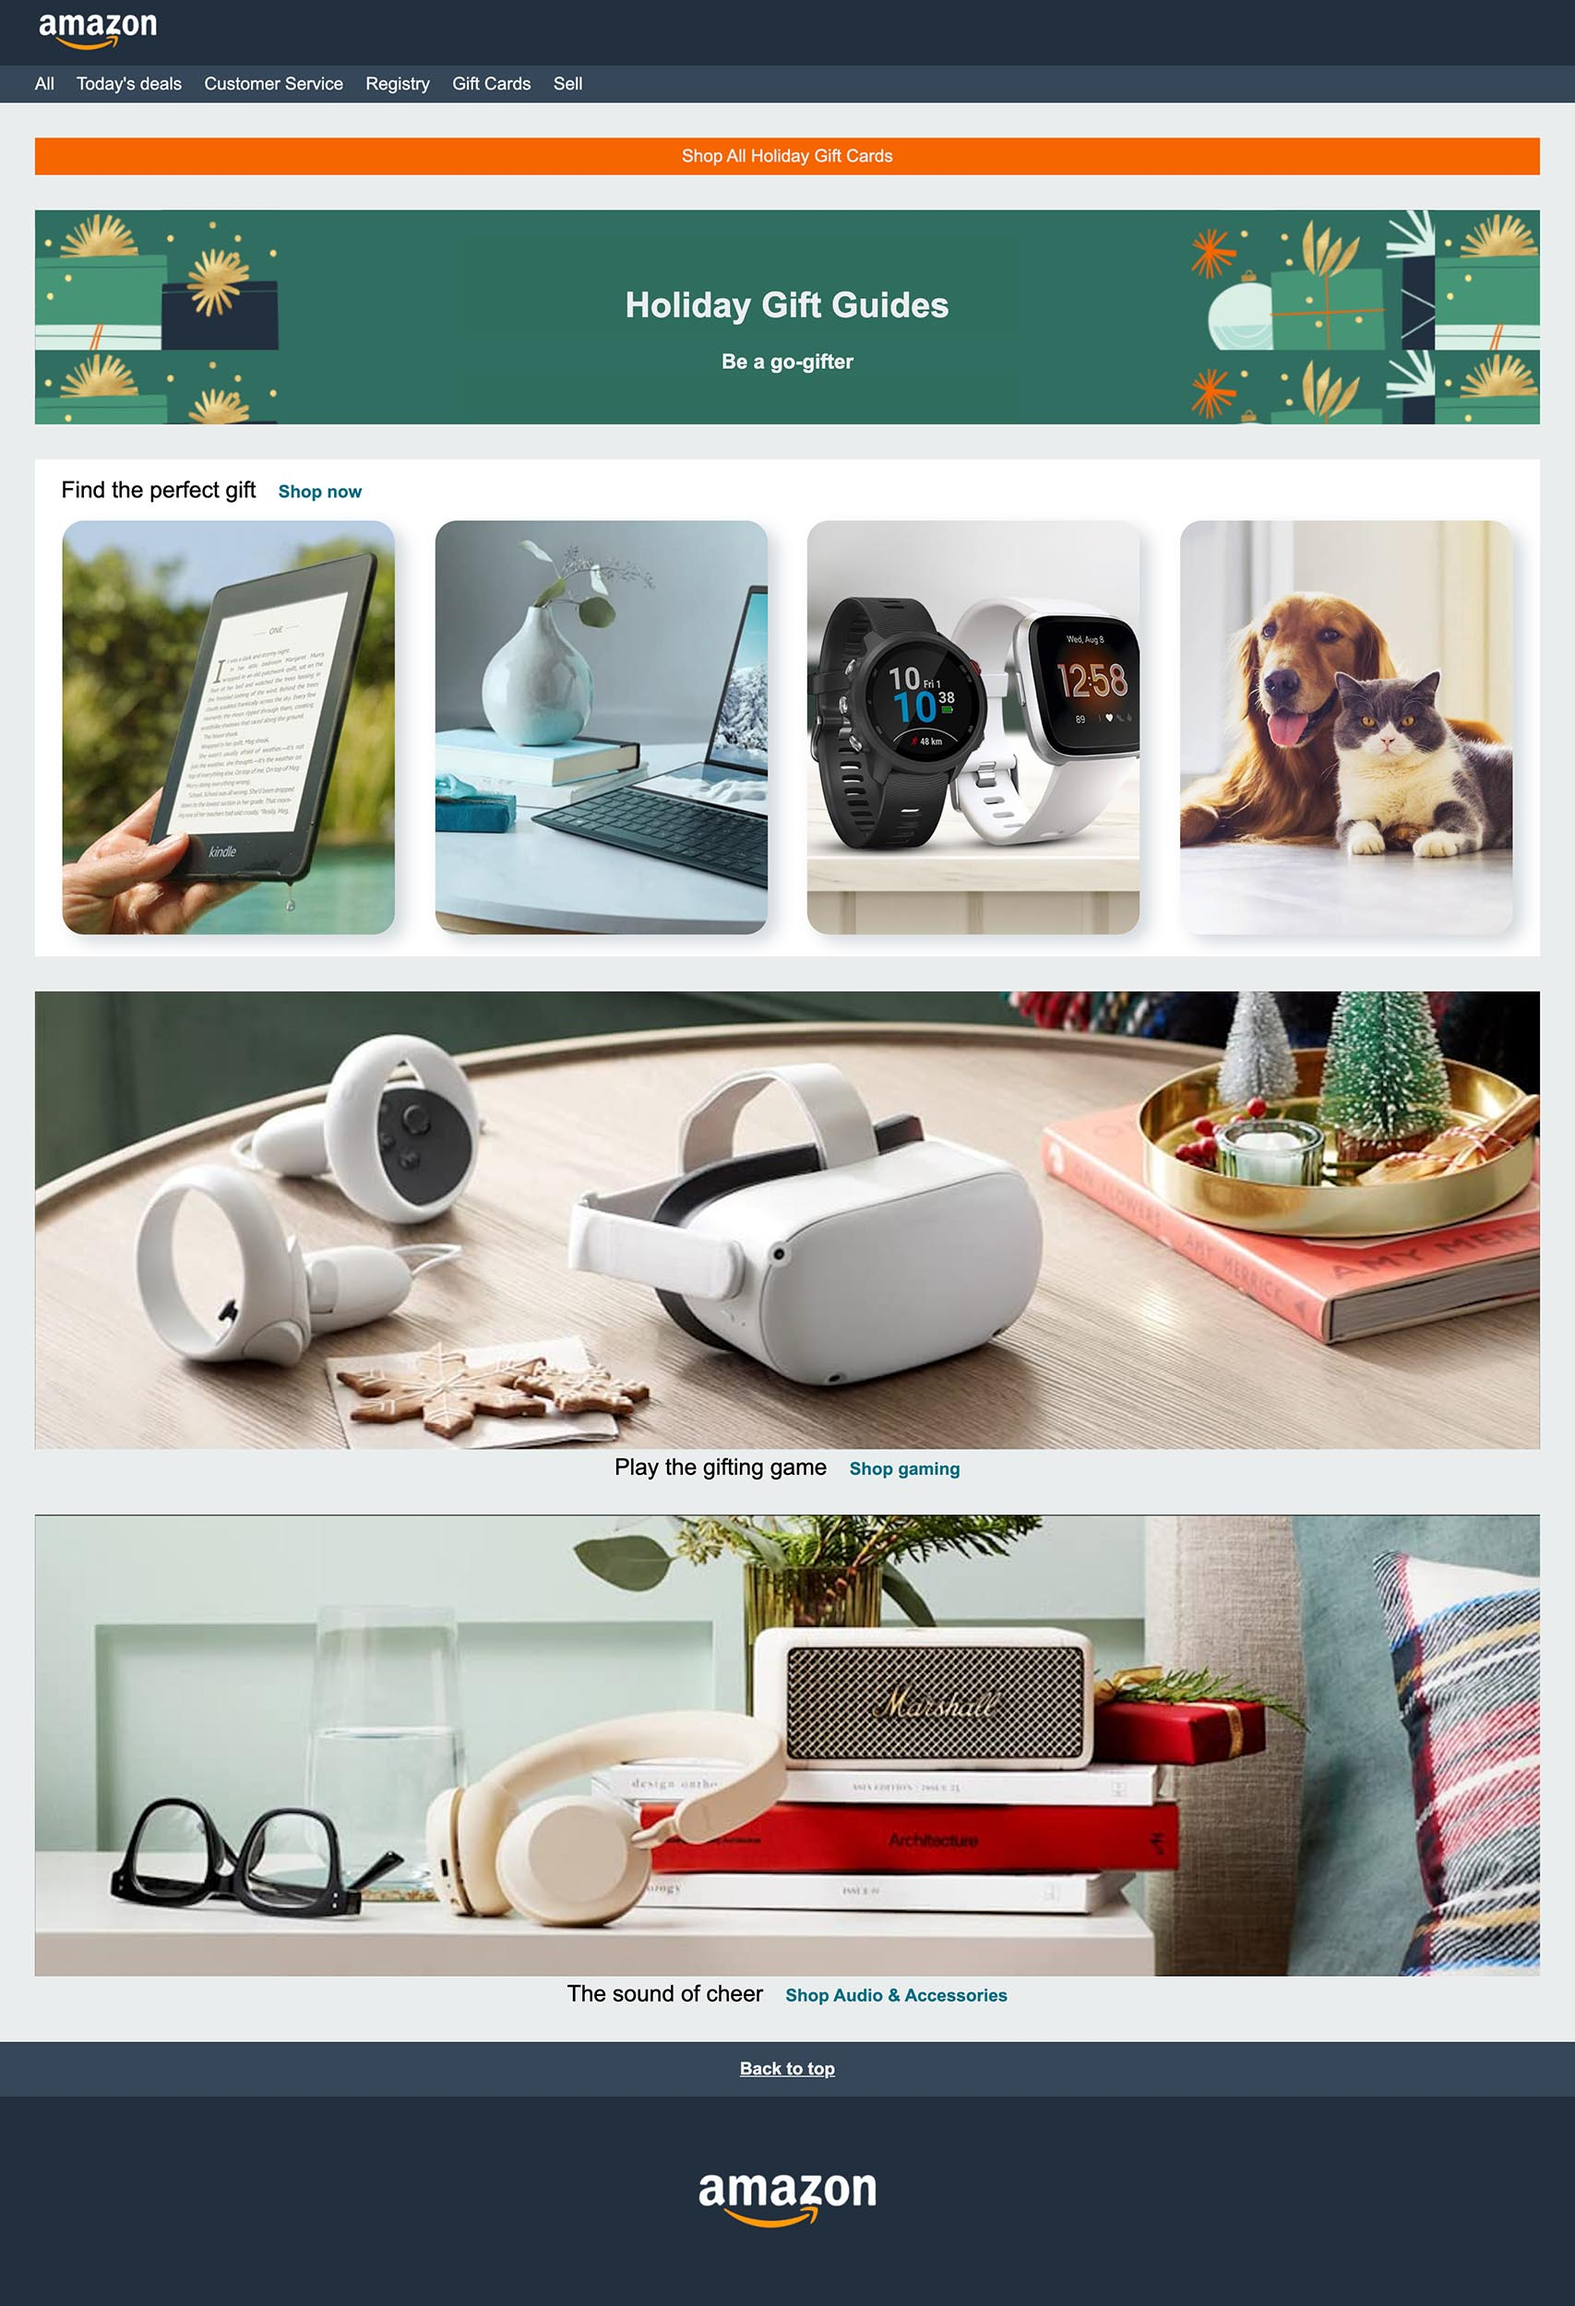
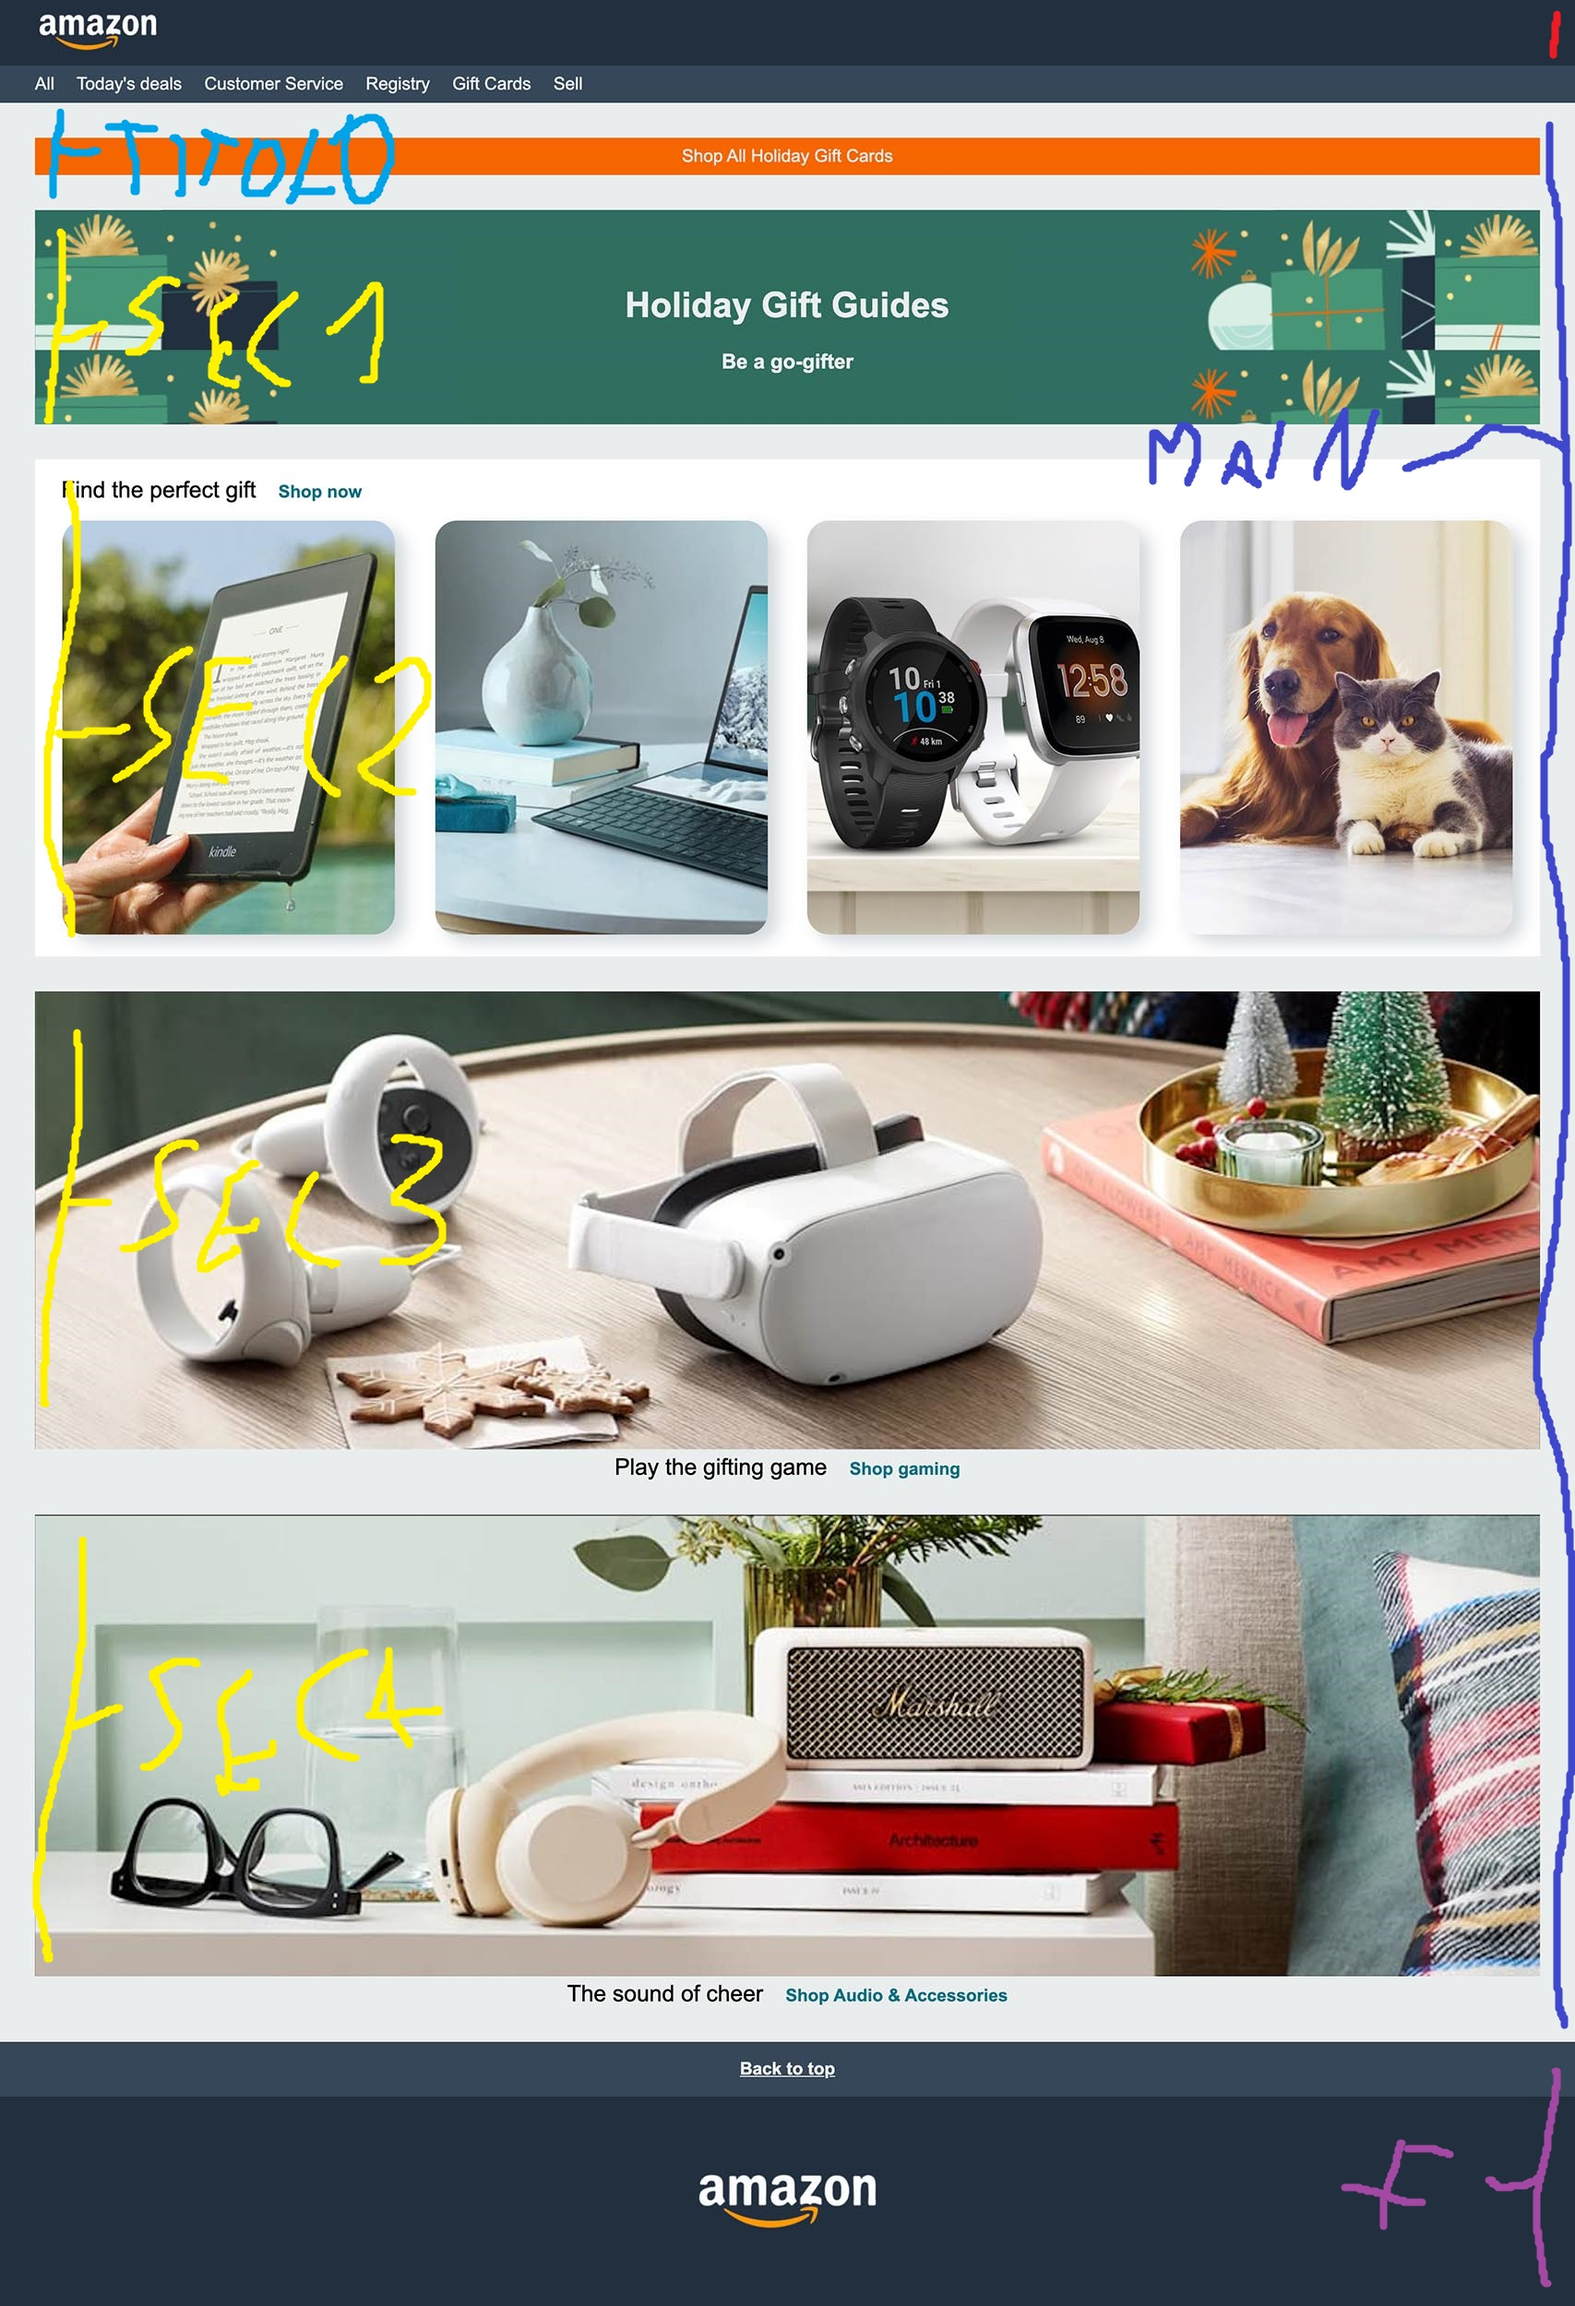
small revision

diff --git a/style.css b/style.css
@@ -6,10 +6,6 @@ body {
     font-family: 'PT Sans', sans-serif;
 }
 
-.container {
-    width: 100%;
-}
-
 header {
     background-color: rgb(34,47,63);
 }
@@ -17,7 +13,7 @@ header {
 header>div {
     width: 10%;
     position: relative;
-    height: 10vh;
+    height: 15vh;
     margin: 0 3%;
 }
 
@@ -42,9 +38,12 @@ nav div.navInlineBlock {
     padding: 0.5%;
 }
 
-header>div div.amazon {
-    font-size: 1.8em;
-    padding: 0% 5% 5%;
+section.second .smallDescription {
+    position: absolute;
+    top: 5%;
+    left: 11.5%;
+    transform: translate(-50%, -50%);
+    font-size: 1.3em;
 }
 
 main {
@@ -54,44 +53,65 @@ main {
     padding: 3vh;
 }
 
-main div.subtitle {
+main div.title {
     background-color: #F56600;
     width: 100%;
     color: #FFEBD9;
-    padding: 10 px;
+    padding: 1vh 0;
+    font-weight: bold;
 }
 section.first {
-    padding: 3vh 0 0;
+    padding: 4vh 0 4vh;
     position: relative;
+    color: #FFEBD9;
+    font-weight: bold;
 }
 
 section.first img {
     width: 100%;
+    height: 25vh;
     z-index: 0;
 }
 
 section.first span {
     position: absolute;
-    top: 45%;
+    top: 50%;
     left: 50%;
     transform: translate(-50%, -50%);
     z-index: 1;
-    font-size: 1.5em;
-    font-weight: bold;
-    color: #FFEBD9;
+    font-size: 2em;
 }
 
-section.first p {
+section.first p:last-child {
     position: absolute;
     top: 60%;
     left: 50%;
     transform: translate(-50%, -50%);
     z-index: 1;
-    color: #FFEBD9;
+    font-size: 1.2em;
 }
 
 section.second {
     position: relative;
+}
+
+section.second .smallDescription {
+    position: absolute;
+    top: 5%;
+    left: 11.5%;
+    transform: translate(-50%, -50%);
+    font-size: 1.3em;
+}
+
+section.second p>span {
+    color: #267A83 ;
+    font-weight: bold;
+    font-size: 0.9em;
+    padding-left: 1vw;
+}
+
+section.second div.whiteBackground {
+    background-color: white;
 }
 
 section.second div.photoInlineBlock {
@@ -103,31 +123,55 @@ section.second div.photoInlineBlock {
 
 section.second div.photoInlineBlock img {
     width: 100%;
-    height: 350px;
+    height: 400px;
     border-radius: 15px;
     box-shadow: 10px 5px 5px lightgray;
 }
 
-section.second div.small {
-    position: absolute;
-    top: 5%;
-    left: 8%;
-    transform: translate(-50%, -50%);
-}
-
-section.second p>span {
-    color: #267A83 ;
-    font-weight: 400;
-    font-size: 1.2em;
-}
-
-section.second div.white {
-    background-color: white;
+section.third {
+    position: relative;
 }
 
 section.third img {
     width: 100%;
-    padding: 2% 0;
+    padding: 2% 0 4%;
+    z-index: 0;
+}
+
+section.third .smallDescription2 {
+    position: absolute;
+    bottom: -3.5%;
+    left: 50%;
+    transform: translate(-50%, -50%);
+    font-size: 1.3em;
+    z-index: 1;
+}
+
+section.third p>span {
+    color: #267A83 ;
+    font-weight: bold;
+    font-size: 0.9em;
+    padding-left: 1vw;
+}
+
+section.fourth {
+    position: relative;
+}
+
+section.fourth .smallDescription2 {
+    position: absolute;
+    bottom: -10%;
+    left: 50%;
+    transform: translate(-50%, -50%);
+    font-size: 1.3em;
+    z-index: 1;
+}
+
+section.fourth p>span {
+    color: #267A83 ;
+    font-weight: bold;
+    font-size: 0.9em;
+    padding-left: 1vw;
 }
 
 section.fourth img {
@@ -137,13 +181,13 @@ section.fourth img {
 
 footer {
     background-color: rgb(34,47,63);
-    height: 18vh;
+    height: 30vh;
     text-align: center;
 
 }
 
 footer div.logo2 {
-    width: 10%;
+    width: 12%;
     position: relative;
 }
 
@@ -151,14 +195,14 @@ footer div.logo2 img {
     width: 100%;
     position: absolute;
     bottom: 0%;
-    top: 8vh;
-    left: 50vw;
+    top: 13vh;
+    left: 50vw; /* non capisco perchè non funziona con le percentuali e debba usare le vh/vw */
     transform: translate(-50%, -50%);
 }
 
 footer div.banner {
     background-color: #364759;
-    padding: 0.3% 0;
+    padding: 1% 0;
     width: 100%;
     color: #DAE4F0;
     text-decoration: none;

diff --git a/index.html b/index.html
@@ -8,32 +8,29 @@
         <title>Amazon Shop</title>
     </head>
     <body>
-        <div class="container"></div>
         <header>
             <div>
                 <img src="./assets/logo.png" alt="" />
             </div>
         </header>
         <nav>
-            <div>
-                <div class="navInlineBlock">All</div>
-                <div class="navInlineBlock">Today's deals</div>
-                <div class="navInlineBlock">Customer Service</div>
-                <div class="navInlineBlock">Registry</div>
-                <div class="navInlineBlock">Gift Cards</div>
-                <div class="navInlineBlock">Sell</div>
-            </div>
+            <div class="navInlineBlock">All</div>
+            <div class="navInlineBlock">Today's deals</div>
+            <div class="navInlineBlock">Customer Service</div>
+            <div class="navInlineBlock">Registry</div>
+            <div class="navInlineBlock">Gift Cards</div>
+            <div class="navInlineBlock">Sell</div>
         </nav>
         <main>
-            <div class="subtitle">Shop All Holiday Gift Cards</div>
+            <div class="title">Shop All Holiday Gift Cards</div>
             <section class="first">
                 <img src="./assets/bg-image.png" alt="" />
                 <span>Holiday Gift Guides</span>
                 <p>Be a go-gifter</p>
             </section>
             <section class="second">
-                <div class="white">
-                    <div class="small">
+                <div class="whiteBackground">
+                    <div class="smallDescription">
                         <p>Find the perfect gift <span>shop now</span></p>
                     </div>
                     <div class="photoInlineBlock">
@@ -51,10 +48,16 @@
                 </div>
             </section>
             <section class="third">
-                <img src="./assets/img_9.png" alt="" />
+                <img src="./assets/img_9.png" alt="VR's photo" />
+                <div class="smallDescription2">
+                    <p>play the gifted game <span>shop gaming</span></p>
+                </div>
             </section>
             <section class="fourth">
                 <img src="./assets/img_10.png" alt="" />
+                <div class="smallDescription2">
+                    <p>The sound of cheer <span>shop Audio & Accessories</span></p>
+                </div>
             </section>
         </main>
         <footer>
